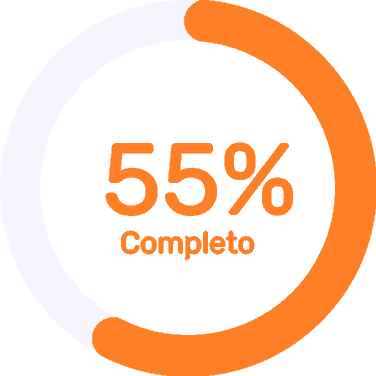
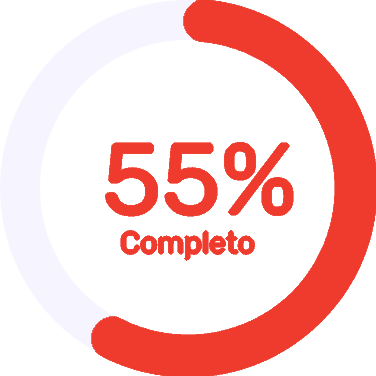
organizando imagens e itens no template

Changed region(s): [[0.234, 0.0, 1.0, 1.0], [0.2633, 0.3803, 0.7899, 0.5851], [0.3218, 0.6144, 0.7021, 0.7021]]

diff --git a/public/assets/css/styles.css b/public/assets/css/styles.css
@@ -1,8 +1,8 @@
 :root {
-    --background-light: #ef6a2d5d;
+    --background-light: #FAD4D4;
     --background-white: #FFFFFF;
     --text-dark: #1F2937;
-    --color-primary: #ef6a2de3;
+    --color-primary: #EF3B2D;
 }
 
 * {
@@ -28,6 +28,20 @@ body {
 .sidebar {
     width: 150px;
     background-color: var(--color-primary);
+    display: flex;
+    justify-content: center;
+}
+
+.logo {
+    height: 100px;
+    padding: 10px;
+    margin-top: 20px;
+    background-color: rgba(255, 255, 255, 0.594);
+    /* Fundo semitransparente para contraste */
+    border-radius: 10px;
+    /* Bordas arredondadas para destaque */
+    box-shadow: 0px 4px 6px rgba(0, 0, 0, 0.1);
+    /* Sombra suave para destacar */
 }
 
 nav {
@@ -90,10 +104,13 @@ section.graph {
 }
 
 .graph_placeholder {
-    background-color: #ccc;
     width: 400px;
     height: 400px;
     margin-top: 20px;
+    background-image: url('/assets/images/graph.png');
+    background-repeat: no-repeat;
+    background-size: cover;
+
 }
 
 .graph_header_tasks_left {
@@ -135,7 +152,9 @@ section.graph {
 
 }
 
-.title, .priority, .actions {
+.title,
+.priority,
+.actions {
     display: flex;
     align-items: center;
     flex: 1;
@@ -143,6 +162,10 @@ section.graph {
 
 .actions {
     justify-content: flex-end;
+}
+
+.actions a {
+    margin: 0 20px;
 }
 
 .sphere {

diff --git a/resources/views/layouts/home.blade.php b/resources/views/layouts/home.blade.php
@@ -16,7 +16,7 @@
 <body>
     <div class="container">
         <div class="sidebar">
-            Logo
+            <img class="logo" src="/assets/images/logo.png" alt="">
         </div>
         <div class="content">
             <nav>
@@ -56,20 +56,12 @@
                                 <div>prioridade</div>
                             </div>
                             <div class="actions">
-                                Editar - Excluir
-                            </div>
-                        </div>
-                        <div class="task">
-                            <div class="title">
-                                <input type="checkbox">
-                                <div class="task_title">Titulo da Tarefa</div>
-                            </div>
-                            <div class="priority">
-                                <div class="sphere"></div>
-                                <div>prioridade</div>
-                            </div>
-                            <div class="actions">
-                                Editar - Excluir
+                                <a href="#">
+                                    <img src="/assets/images/icon-edit.png" alt="">
+                                </a>
+                                <a href="#">
+                                    <img src="/assets/images/icon-delete.png" alt="">
+                                </a>
                             </div>
                         </div>
                     </div>
